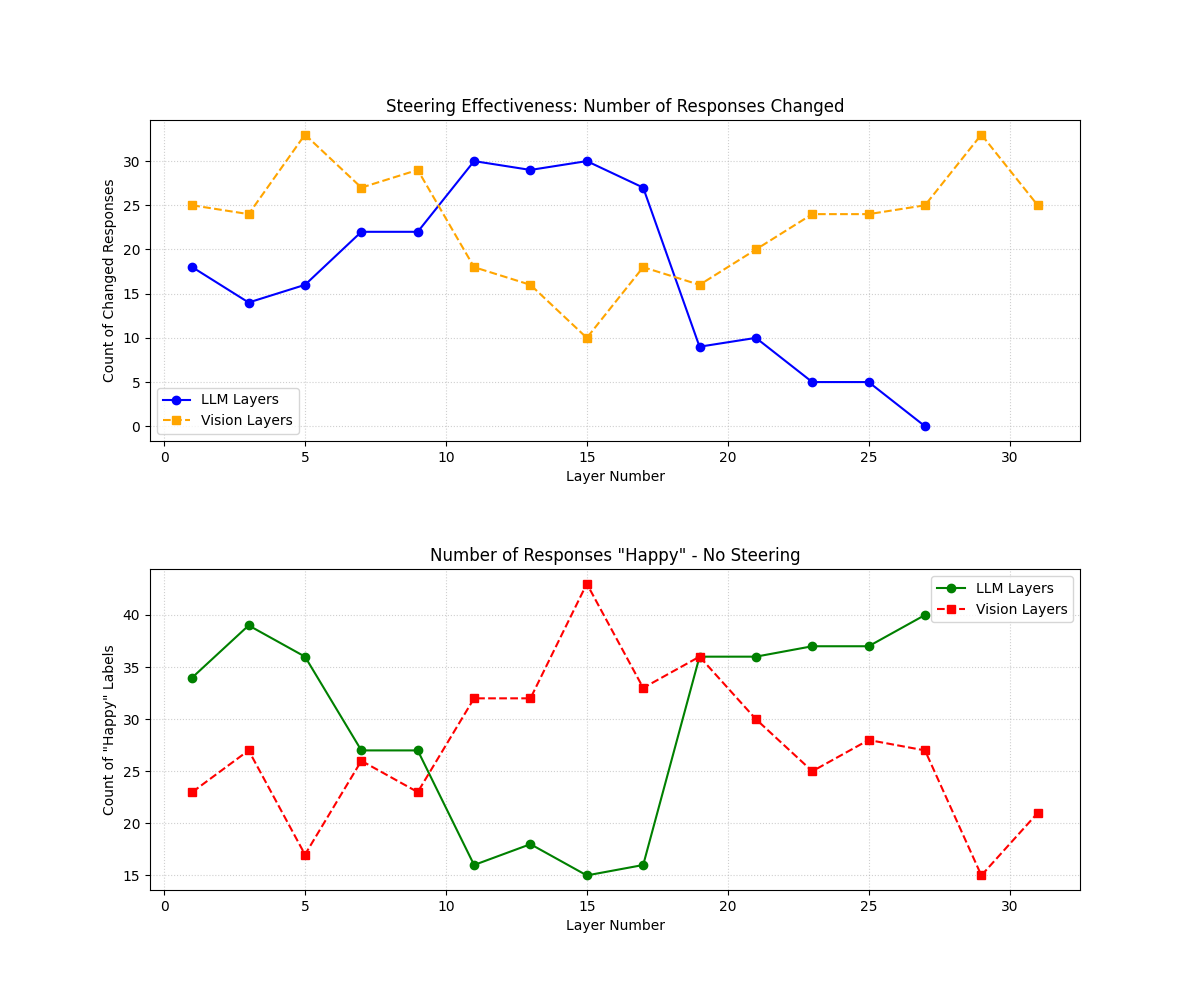
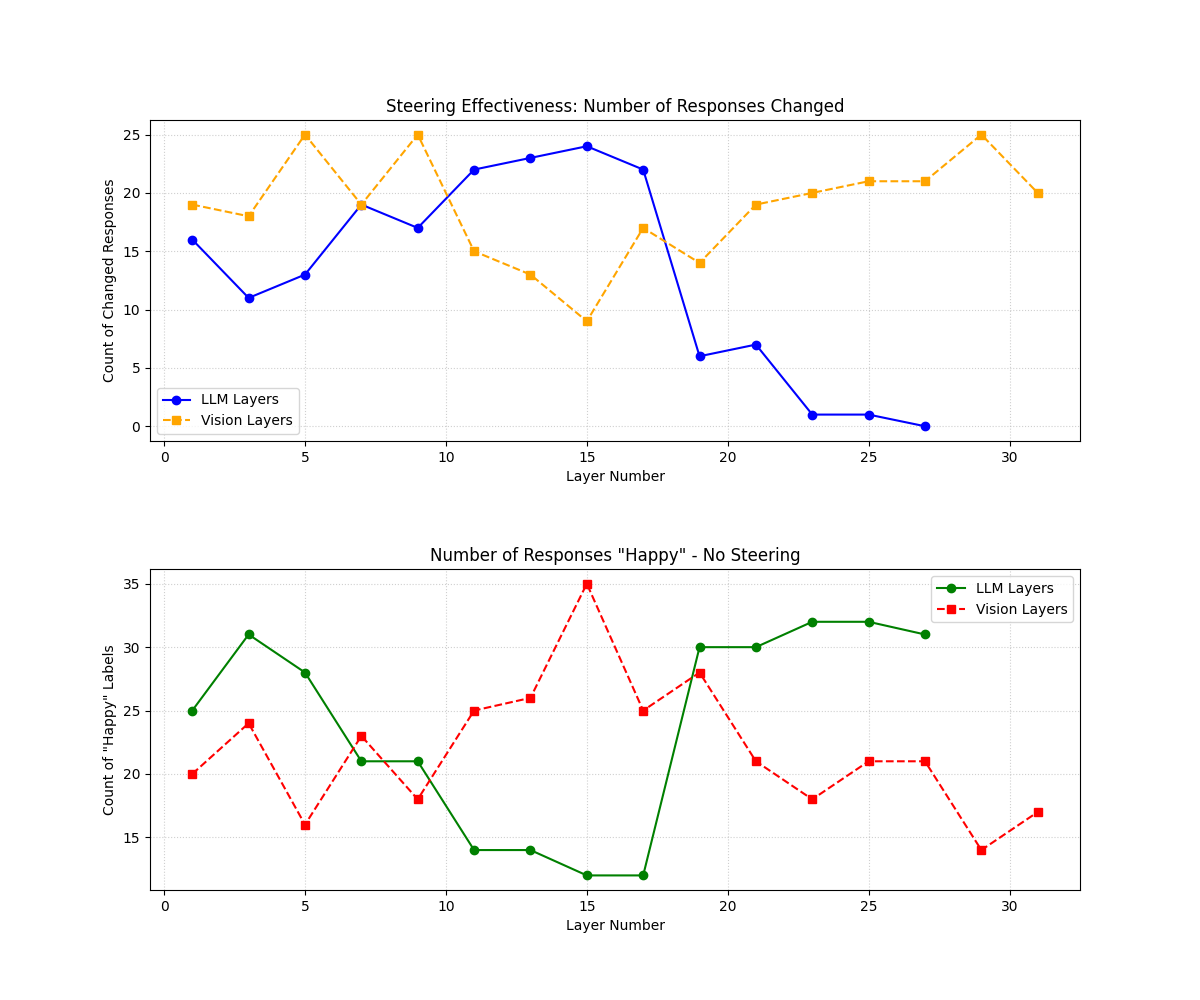
defining experiments

diff --git a/emotion_manipulation_PoC.py b/emotion_manipulation_PoC.py
@@ -1,85 +1,24 @@
+import os
+import json
+import re
+import numpy as np
+import torch
+import matplotlib.pyplot as plt
+from PIL import Image
+from tqdm import tqdm
 from Load_fer_dataset import load_fer_data
 from Load_VLM import load_qwen_model, get_vlm_response
-from PIL import Image
 from VLM_manipulation import get_layer_representation, generate_with_vector_insertion
-import re
-import matplotlib.pyplot as plt
-import json
-import os
-from tqdm import tqdm
-import torch
-import numpy as np
-
-def generate_steering_graphs(filename="emotion_steering_results.json"):
-    if not os.path.exists(filename):
-        print(f"File {filename} not found.")
-        return
-
-    with open(filename, "r") as f:
-        data = json.load(f)
-
-    # Filter data
-    llm_data = [row for row in data if row[1] == 'LLM']
-    vision_data = [row for row in data if row[1] == 'Vision']
-
-    # --- TOP GRAPH DATA (Steering) ---
-    llm_layers = sorted([row[0] for row in llm_data])
-    # Re-sort steering counts to match sorted layers
-    llm_steering_cnt = [row[2][3] for row in sorted(llm_data, key=lambda x: x[0])]
-    
-    vis_layers = sorted([row[0] for row in vision_data])
-    vis_steering_cnt = [row[2][3] for row in sorted(vision_data, key=lambda x: x[0])]
-
-    # --- BOTTOM GRAPH DATA (Baseline Averages) ---
-    llm_happy_counts = [row[2][2] for row in llm_data]
-    vis_happy_counts = [row[2][2] for row in vision_data]
-
-    llm_mean, llm_std = np.mean(llm_happy_counts), np.std(llm_happy_counts)
-    vis_mean, vis_std = np.mean(vis_happy_counts), np.std(vis_happy_counts)
-
-    # --- PLOTTING ---
-    fig, (ax1, ax2) = plt.subplots(2, 1, figsize=(10, 12))
-    plt.subplots_adjust(hspace=0.4)
-
-    # Subplot 1: Steering Effectiveness (Line Plot)
-    ax1.plot(llm_layers, llm_steering_cnt, marker='o', label='LLM Layers', color='blue')
-    ax1.plot(vis_layers, vis_steering_cnt, marker='s', linestyle='--', label='Vision Layers', color='orange')
-    ax1.set_title('Steering Effectiveness: Number of Responses Changed')
-    ax1.set_xlabel('Layer Number')
-    ax1.set_ylabel('Count of Changed Responses')
-    ax1.legend()
-    ax1.grid(True, linestyle=':', alpha=0.6)
-
-    # Subplot 2: Baseline Comparison (Bar Plot)
-    labels = ['LLM Backbone', 'Vision Encoder']
-    means = [llm_mean, vis_mean]
-    stds = [llm_std, vis_std]
-    colors = ['green', 'red']
-
-    bars = ax2.bar(labels, means, yerr=stds, color=colors, capsize=10, alpha=0.8)
-    ax2.set_title('Baseline Model Performance: Average "Happy" Labels (No Steering)')
-    ax2.set_ylabel('Average Count')
-    
-    # Add text labels on top of bars for clarity
-    for bar in bars:
-        height = bar.get_height()
-        ax2.text(bar.get_x() + bar.get_width()/2., height + 0.5,
-                f'{height:.2f}', ha='center', va='bottom', fontweight='bold')
-
-    ax2.grid(axis='y', linestyle=':', alpha=0.6)
-
-    # Save and Show
-    output_img = "emotion_steering_analysis_refined.png"
-    plt.savefig(output_img)
-    print(f"Refined graphs saved to {output_img}")
-    plt.show()
-
+from visualize import generate_steering_graphs
 
 def load_file_image(info):
     filename = "emotion_steering_results.json"
     if os.path.exists(filename):
         with open(filename, "r") as f:
-            data = json.load(f)
+            try:
+                data = json.load(f)
+            except json.JSONDecodeError:
+                data = []
     else:
         data = []
     data.append(info)
@@ -88,79 +27,129 @@ def load_file_image(info):
         json.dump(data, f, indent=2)
 
 def get_label(text):
+    if not isinstance(text, str): return None
     text = text.lower()
     
-    # 1. HAPPY (Check first)
-    happy_keywords = [
-        "happy", "happiness", "joy", "joyful", "joyous", "delighted", "pleased",
-        "content", "contented", "satisfied", "elated", "cheery",
-        "smile", "smiling", "grin", "grinning", "beaming","bright expression", "warm expression",
-        "laugh", "laughing", "amused", "amusement","cheerful", "playful", "lighthearted",
-        "excited", "excitement", "enthusiastic", "energetic", "lively","friendly", "approachable", "positive mood", "in good spirits"
-    ]
-    if any(word in text for word in happy_keywords):
-        return "happy"
+    happy_keywords = ["happy", "happiness", "joy", "joyful", "smile", "smiling", "grin", "laugh", "cheerful", "excited", "delighted", "content"]
+    if any(word in text for word in happy_keywords): return "happy"
 
-    sad_keywords = [
-        # affect
-        "sad", "unhappy", "sorrowful", "melancholy", "depressed",
-        "heartbroken", "downhearted",
+    sad_keywords = ["sad", "unhappy", "sorrow", "frown", "crying", "tear", "upset", "depressed", "grief", "melancholy"]
+    if any(word in text for word in sad_keywords): return "sad"
 
-        # facial / expression
-        "frown", "frowning", "tearful", "crying", "tears", "pained", "troubled", "anguished", "woeful", "forlorn",
-        "distressed", "upset", "dejected", "downcast","mournful", "gloomy", "somber", "despondent",
-        "slumped", "drooping", "lowered gaze", "averted gaze","sad", "looks upset", "appears unhappy"
-    ]
-    if any(word in text for word in sad_keywords):
-        return "sad"
-
-    # 3. NEUTRAL (Check last)
-    neutral_keywords = [
-        "neutral", "emotionless", "impassive", "blank", "flat expression", "unemotional", "indifferent", "detached",
-        "unaffected", "unmoved", "dispassionate", "apathetic","calm", "composed", "stoic", "reserved","controlled", "matter-of-fact",
-        "straight face", "no visible emotion","expressionless", "still expression",
-        "serious", "focused", "contemplative","observant", "attentive","appears neutral", "neither happy nor sad"
-    ]
-    if any(word in text for word in neutral_keywords):
-        return "neutral"
+    neutral_keywords = ["neutral", "calm", "blank", "expressionless", "serious", "stoic", "indifferent"]
+    if any(word in text for word in neutral_keywords): return "neutral"
 
     return None
 
-def steering_images_by_layer(model, processor, images, steering_images, alpha=1, emotion="happy", llm_use=True, layer_n=10, batch=1):
+# --- 3. Core Steering Logic ---
+def steering_images_by_layer(model, processor, images, steering_images, alpha=1, prompt="Caption...", emotion="happy", llm_use=True, layer_n=10, batch=1):
     responses, steered_responses = [], []
     cnt_steering, cnt_emotion = 0, 0
-    system_prompt = "Caption the image, focusing on the facial expression" 
+    system_prompt = prompt
 
-    for i in range(0, min(len(images), 20 * batch), batch):
-
-        test_img = Image.open(images[i]).convert("RGB").resize((336, 336))
+    # Iterate through images in batches
+    for i in range(0, min(len(images), 10 * batch), batch):
         
+        # --- Handle Test Image (Path vs Object) ---
+        img_input = images[i]
+        if isinstance(img_input, str):
+            test_img = Image.open(img_input).convert("RGB").resize((336, 336))
+        else:
+            test_img = img_input.convert("RGB").resize((336, 336))
+            
+        # --- Create Steering Vector ---
         vectors = []
         for j in range(batch):
             idx = (i + j) % len(steering_images)
-            s_img = Image.open(steering_images[idx]).convert("RGB").resize((336, 336))
+            s_input = steering_images[idx]
             
+            # Handle Steering Image (Path vs Object)
+            if isinstance(s_input, str):
+                s_img = Image.open(s_input).convert("RGB").resize((336, 336))
+            else:
+                s_img = s_input.convert("RGB").resize((336, 336))
+            
+            # Get representation
             vec = get_layer_representation(model, processor, s_img, layer_n, LLM_use=llm_use)
             vectors.append(vec)
         
+        # Stack and Average (Fixes the list error)
         steering_vector = torch.stack(vectors).mean(dim=0)
 
+        # --- Generate Responses ---
+        # 1. Without Steering
         response_wo = get_vlm_response(model, processor, test_img, system_prompt)
+        
+        # 2. With Steering
         response_w = generate_with_vector_insertion(
             model, processor, test_img, layer_n, steering_vector, 
             alpha=alpha, prompt=system_prompt, LLM_use=llm_use
         )
+        
         responses.append(response_wo)
         steered_responses.append(response_w)
         
-        if get_label(response_w) != get_label(response_wo):
-            cnt_steering += 1
+        # --- Metrics ---
         if get_label(response_w) == emotion:
-            cnt_emotion += 1
-        # print(f"Image {i}: Without Steering: '{response_wo}' | With Steering: '{response_w}'")
-    return responses, steered_responses, cnt_emotion, cnt_steering
+            cnt_steering += 1
+        # if get_label(response_w) == emotion:
+        #     cnt_emotion += 1
             
-def steering_images():
+    return responses, steered_responses, cnt_emotion, cnt_steering
+
+def steering_blank_images_emotion():
+    print("--- Loading Data ---")
+    happy, sad, neutral, _, _, _, _ = load_fer_data()
+    print(f"Loaded {len(happy)} happy images.")
+
+    print("\n--- Loading Model ---")
+    model, processor = load_qwen_model()
+    
+    print(f"\n--- Running Emotion Manipulation on Blank images ---")
+    results = {}
+    
+    # Define emotions to steer with
+    emotions_map = {'happy': happy, 'sad': sad, 'neutral': neutral}
+
+    for emotion, steer_imgs in emotions_map.items():
+        results[emotion] = []
+        
+        # Generate 20 White Blank Images
+        count = 20
+        width, height = 640, 640
+        color = (255, 255, 255)
+        base_array = np.full((height, width, 3), color, dtype=np.uint8)
+        blank_image_pil = [Image.fromarray(base_array.copy()) for _ in range(count)]
+        print(f"\nGenerated {len(blank_image_pil)} blank images for steering with '{emotion}'.")
+
+        prompt = "Describe the image. If you see any specific emotion or object, describe it clearly."
+
+        # --- LOOP 1: LLM LAYERS ---
+        print(f"  -> Running LLM steering...")
+        for layer in tqdm(range(1, model.config.num_hidden_layers, 2), desc=f"LLM {emotion}"):
+            res = steering_images_by_layer(
+                model, processor, blank_image_pil, steer_imgs, 
+                alpha=1.0, prompt=prompt, emotion=emotion, 
+                llm_use=True,   # <--- Correct: True for LLM
+                layer_n=layer, batch=10
+            )
+            # Save with unique key for blanks
+            load_file_image([f"blank_{emotion}_{layer}", 'LLM', res])
+            results[emotion].append(res)
+        
+        # --- LOOP 2: VISION LAYERS ---
+        print(f"  -> Running Vision steering...")
+        for layer in tqdm(range(1, model.config.vision_config.depth, 2), desc=f"Vision {emotion}"):
+            res = steering_images_by_layer(
+                model, processor, blank_image_pil, steer_imgs, 
+                alpha=1.0, prompt=prompt, emotion=emotion, 
+                llm_use=False,  # <--- Correct: False for Vision
+                layer_n=layer, batch=10
+            )
+            load_file_image([f"blank_{emotion}_{layer}", 'Vision', res])
+            results[emotion].append(res)
+
+def steering_images_emotion():
     print("--- Loading Data ---")
     happy, sad, neutral, _, _, _, _ = load_fer_data()
     print(f"Loaded {len(happy)} happy images.")
@@ -177,7 +166,7 @@ def steering_images():
     for layer in tqdm(range(1,model.config.vision_config.depth,2)):
         result = steering_images_by_layer(model, processor, happy, sad, alpha=1.0, llm_use=False, layer_n=layer)
         load_file_image([layer, 'Vision', result])
-
 if __name__ == "__main__":
-    steering_images()
+    steering_blank_images()
+    # Safely generate graphs (skipping the new blank data)
     generate_steering_graphs("emotion_steering_results.json")
